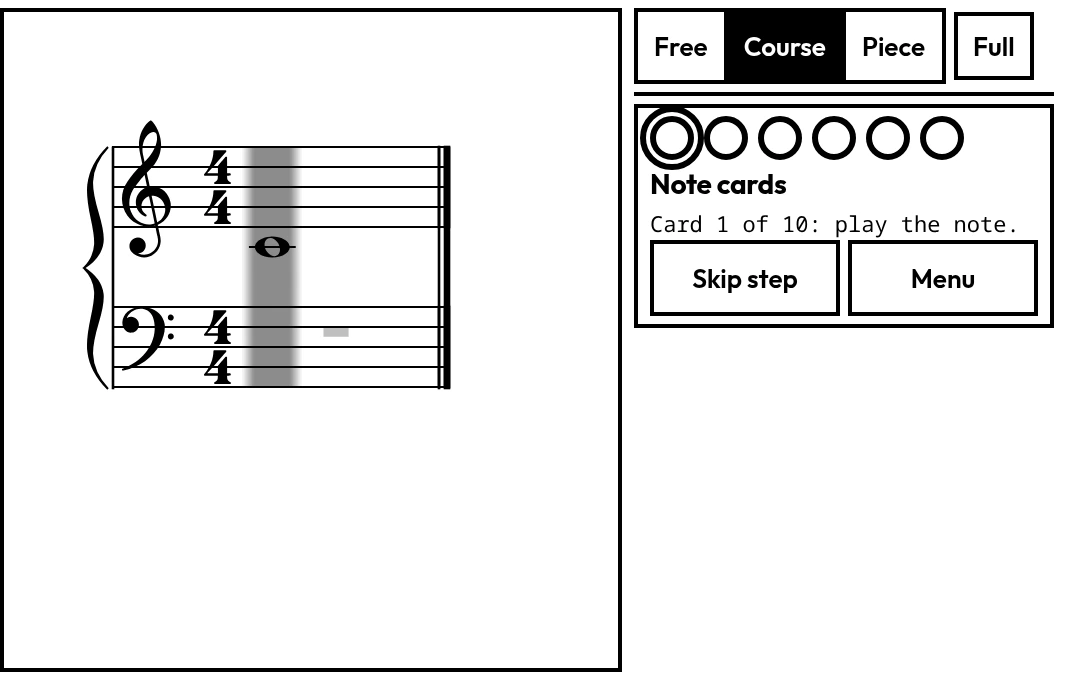
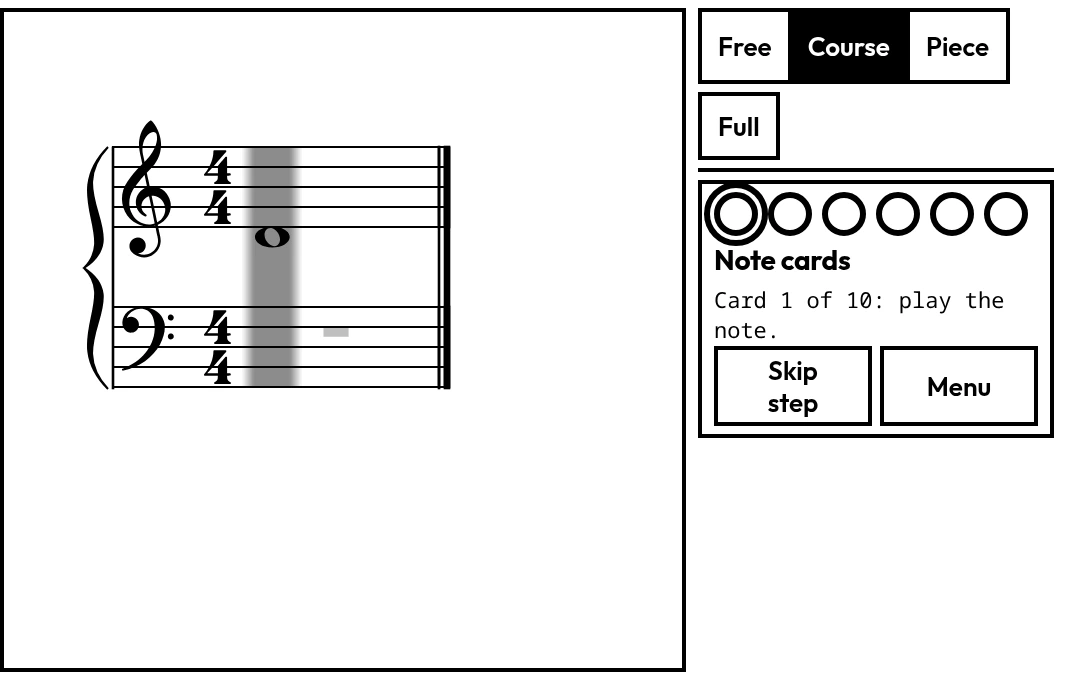
Update README and screenshots

Changed region(s): [[0.5572, 0.0, 0.9906, 0.9882], [0.2167, 0.3397, 0.2786, 0.4015], [0.8668, 0.5559, 0.9287, 0.5868]]

diff --git a/README.md b/README.md
@@ -17,7 +17,7 @@ MIDI keyboard, and you can also play with your computer keyboard or the mouse.
 
 ![Wait mode on Ode to Joy: a right chord in green, a wrong key in red, and the feedback line](docs/screenshots/wait-mode.webp)
 
-**Tempo mode** (Night theme). A metronome sets the pace and every note has a timing window. The thin line crossing the staves moves at your tempo, so you can see when to press. The key you should play next is outlined in green, and the status line counts what was in time, missed or extra.
+**Tempo mode** (Night theme). A metronome sets the pace and every note has a timing window. A thin line runs across the staves and is over each note exactly when you should press it; it already runs through the count-in, entering from the start of the staff and reaching the first note on the first beat. The piece also plays quietly underneath, so you hear the tempo as well as see it. The key you should play next is outlined in green, and the status line counts what was in time, missed or extra. **Earlier** and **Later** next to Stop move the line a little if your screen shows it late or early.
 
 ![Tempo mode with the moving line, a green hit and a red wrong key](docs/screenshots/tempo-mode.webp)
 
@@ -42,7 +42,7 @@ runs ahead of the lesson ([12-lesson-ladder.md](12-lesson-ladder.md), [13-progre
 The **minimal view** is the same app for a small, black and white e-ink screen such as the Minimal Phone (4.3", 600×800): the score,
 the tempo and Start, big buttons, no animation. Open `?view=minimal` once to bookmark it, or tap the button at the top right of the full view.
 It is built for the phone on the music stand, held sideways: the score takes the whole height on the left and the controls stack in a column on the
-right. Held upright it works too (last row below). The staff is drawn at the width of the screen and shrinks until two rows fit, so you always
+right. Held upright it works too (last row below). **While a timed run is going, the controls go away**: the score fills the screen and only a thin strip stays at the bottom, with the cue, the **Earlier / Later** buttons for the line and **Stop**. Everything comes back when the run ends. The staff is drawn at the width of the screen and shrinks until two rows fit, so you always
 see the line after the one you are reading, and the page turns exactly at the start of a line, never through one.
 
 <table>
@@ -55,7 +55,7 @@ see the line after the one you are reading, and the page turns exactly at the st
 <td width="50%"><img src="docs/screenshots/minimal-wait.webp" alt="Wait mode in the minimal view: a right note filled in, a wrong note dashed"><br><sub><b>Free mode, wait mode.</b> What you play shows on the staff: filled when right, dashed when wrong, with no colour needed.</sub></td>
 </tr>
 <tr>
-<td width="50%"><img src="docs/screenshots/minimal-tempo.webp" alt="A timed run: the grey bar on the next note, a check mark under the note just played, and the cue 'Next C4, in 3'"><br><sub><b>A timed run.</b> The grey bar is the next note to play and jumps the moment you play it. The cue says which note and how many clicks away ("in 3", then NOW), and a ✓ stays under every note that counted (✕ for a missed one).</sub></td>
+<td width="50%"><img src="docs/screenshots/minimal-tempo.webp" alt="A timed run: the score fills the screen, a thin line crosses the staff, check marks under the notes played, and a strip at the bottom with the cue, Earlier and Later and Stop"><br><sub><b>A timed run.</b> The score takes the screen and a thin line crosses it: press each key when the line is over its note. The strip below has the cue ("Next C4 · in 3", then NOW), <b>Earlier / Later</b> to tune the line to your screen, and Stop. A ✓ stays under every note that counted (✕ for a missed one).</sub></td>
 <td width="50%"><img src="docs/screenshots/minimal-result.webp" alt="The result card after a run: 89 out of 100 with a Try again button"><br><sub><b>The result.</b> Score and stars, and <b>Try again</b>, which is on every piece and exercise. Tap anywhere else on the card to close it and see your marks.</sub></td>
 </tr>
 </table>
@@ -74,7 +74,7 @@ These screenshots show only the app's own exercises and generated pieces, with a
 
 The **Piece** switch at the top works one score until it is done: the app finds the easy and hard parts of each hand, then takes you from the notes the piece uses, through each hand alone, a few bars with both hands, and the trouble spots, up to the whole piece with the metronome.
 
-It opens on a short list of pieces **grouped by artist**. Pick one and you are practising at once, at the step where you stopped: there is no plan to read, only a row of dots at the top for how far along the path you are (filled = done, big = this one, dashed = skipped). **Pieces** takes you back to the list.
+It opens on a short list of pieces **grouped by artist**. Pick one and you are practising at once, at the step where you stopped: there is no plan to read, only a row of dots at the top for how far along the path you are (filled = done, big = this one, dashed = skipped). **Pieces** takes you back to the list. You can go anywhere on the path to practise freely: **tap any dot** to jump to that step, **← Back** goes to the one before, and on a finished step **Next →** goes to the next one even if it is done too. A finished note-card step keeps dealing cards, so you can drill them as long as you like.
 
 <table>
 <tr>
@@ -83,7 +83,7 @@ It opens on a short list of pieces **grouped by artist**. Pick one and you are p
 </tr>
 </table>
 
-Every playing step opens on the notes only, with the music waiting for you, and that practice is free: it never counts. A step is finished by the rhythm: press **Play with rhythm** and play it with the metronome. Only good runs with the beat count towards the goal, and **Back to the notes only** takes you back whenever you like.
+Every playing step opens on the notes only, with the music waiting for you, and that practice is free: it never counts. A step is finished by the rhythm: press **Play with rhythm** and play it with the metronome. **The run starts the moment you press it**, with no Start button. Only good runs with the beat count towards the goal, and **Notes only** takes you back whenever you like. When a run ends and its score is showing, **any key on the piano starts the next one**, so your hands never leave the keys; the key you pressed is not played into the new run.
 
 Only the scores marked `"pieceMode": true` in `app/scores/library.json` appear in its list, so the list holds just the pieces set up by hand for it (today: Tomorrow's Song). Add the flag to an entry to offer another.
 
@@ -96,7 +96,8 @@ Only the scores marked `"pieceMode": true` in `app/scores/library.json` appear i
 - **Sound.** Listen and the computer keyboard play through one of four instruments, picked with the **♪** button beside Listen: Grand (a recorded piano, one sample per key from C2 to B5, loaded the first time it is used), Piano (a built-in one made of overtones that die away at their own speed, with a hammer thump and a little room reverb), Soft (an electric piano) and Bells. The built-in ones are made in code and work with no files; if the recorded samples cannot be loaded, Grand plays the built-in Piano instead. The samples are MIT-licensed, from [piano-sound-samples](https://github.com/Leethring/piano-sound-samples); see `app/public/samples/piano/README.md`. A piano plugged in over MIDI always makes its own sound.
 - **Tempo mode.** After a count-in, the score follows a metronome and each note has a timing window. You get the share of notes played
   in time, missed and extra notes, and whether you rush or drag. After a clean run the tempo rises 4 bpm. Three clean runs at the target tempo finish the piece.
-  The tempo counts the piece's own beat, so 6/8 is counted in dotted quarters. A line slides across the score at the tempo: press each key as the line reaches its note. A level setting (Beginner, Intermediate, Advanced) sets how wide the timing window is, from about half a beat either side down to a strict ±150 ms at most.
+  The tempo counts the piece's own beat, so 6/8 is counted in dotted quarters. A thin line slides across the score at the tempo: press each key as the line is over its note (see *How the moving line works* below). The piece plays quietly under the run in the recorded piano (the **Play the music quietly** box next to the metronome), which makes a steady tempo much easier to keep. A level setting (Beginner, Intermediate, Advanced) sets how wide the timing window is, from about half a beat either side down to a strict ±150 ms at most.
+- **Triplets under the staff.** The bracket and the 3 of a triplet are drawn below the staff, as in printed scores, so the 3 is never mistaken for finger 3 above the notes.
 - **Try again.** Every result card has a **Try again** button, for every piece and exercise (wait or tempo, free or in the course): wait mode starts again from the first note, tempo mode from a fresh count-in, as often as you like. Every run is logged. In the course, a second go at the same generated reading piece is practice and does not count towards the step; the sight-reading test is one try on purpose.
 - **Listen.** Plays the piece (one hand or both) after a count-in, with the cursor and the keys lit, so you can hear the rhythm before you try it.
 - **Bar ranges and looping.** Practise bars 5 to 8 only, and loop them at a rising tempo.
@@ -114,7 +115,29 @@ Only the scores marked `"pieceMode": true` in `app/scores/library.json` appear i
 - **Minimal view.** A black and white layout for small and e-ink screens (see above), with a paged score instead of scrolling.
 - **Adding music.** Drop MusicXML files in `inbox/` and run one script. It checks each file, rates its difficulty, assigns a stage and rejects duplicates and pop.
 
-All the grading runs in your browser. There is no server, no account and no network use after the page loads.
+All the grading runs in your browser. The app is plain static files: there is no server of its own and no network use after the page loads. It can run on your laptop, or published on Cloudflare behind a login (see *Putting it online*); either way your practice log is kept in the browser.
+
+### How the moving line works
+
+The line has to be over the note when the note is due, on any screen. Three decisions make that so:
+
+- **It takes its position from OSMD's own cursor bar.** OSMD puts that bar over each step using the staff entry that is a reliable anchor; the app keeps the bar running but invisible, and reads its centre (and the height of its system) for every step. Computing the position from the notes themselves was wrong whenever a rest or another voice sat off the note's column. Measured against the real noteheads at due time, the line is within a few pixels at every screen size tested.
+- **Everything is measured on the final drawing.** A run changes the layout (the minimal view clears its controls), so the score is drawn for that first, the places of all the steps are measured, and only then does the clock start. If the window changes mid-run, the places are measured again. The drawing's units are 10 px per OSMD unit whatever the zoom: the zoom is only the size the SVG is displayed at, so anything drawn inside it must not be scaled by the zoom a second time.
+- **It is drawn ahead of the clock.** A screen shows what it was given a moment ago, and e-ink more than most. The line is drawn where the clock will be half a redraw from now (the redraw time is measured) plus a delay for the panel itself, and **Earlier / Later** set that delay on the device and remember it. Between two notes the line slides, so it is over a note exactly when the note is due; across a line break it waits at the last note and jumps on the beat.
+
+## Putting it online
+
+The app is static files, so it is published as a Cloudflare Worker with static assets (`app/wrangler.jsonc`), at a `workers.dev` address behind a **Cloudflare Access** login (one-time email PIN, a rule set in the Cloudflare dashboard, so the wall is not in the code). That gives a real HTTPS address, which also fixes Web MIDI on a phone without a self-signed certificate.
+
+```bash
+cd app
+npm run deploy      # checks the login wall, builds, checks the scores, uploads
+```
+
+- **Publish from your own computer, never from GitHub.** The scores are copyrighted and not in git, so a build made from the repository would have only the public-domain pieces. `npm run deploy` builds locally and uploads `dist`.
+- **The script refuses to publish** unless the address answers an anonymous request with a redirect to the Access login (so scores can never go out in the open), and unless the build holds as many score files as `app/scores/` does. Scores are always kept as separate files for this reason (`assetsInlineLimit` in `vite.config.ts`).
+- **Preview URLs are off** (`preview_urls: false`): each would be a second public address the login does not cover.
+- Saving the practice log in the cloud (a D1 database behind the same login) is planned, not built: for now it lives in each browser, with the backup file as the safeguard.
 
 ## Quick start
 
@@ -209,6 +232,8 @@ app/                    Vite + TypeScript app
   course/course.json    The units: exercises, reading rungs, cards, exits
   scores/library.json   Manifest of imported scores (files are not tracked)
   public/samples/piano/ The recorded piano (MIT, with its credit), one sample per key
+  scripts/deploy.mjs    npm run deploy: the checks, the build and the upload
+  wrangler.jsonc        The Cloudflare Worker that serves the build
 tools/                  import-scores.py, score-difficulty.py, midi-check.html, ledger.py, fingering.py (finger numbers for Tomorrow's Song), piano-samples.py (picks the piano samples)
 tools/omr/              PDF to MusicXML (homr plus checks), local only
 tools/screenshots/      Takes the screenshots for this README (minimal.mjs and full.mjs)
@@ -227,7 +252,7 @@ Wait mode, tempo mode, hands, listen, ranges and looping, the sight-reading test
 (with its introduction week and reading ladder), the minimal view and backup files are done. The course reaches unit 2.3; the
 next job is **more content**: Faber Book 1 Units 14 to 16 and four lyric-heavy pieces to transcribe by hand, then Book 2 for Stage 3 (what is converted and
 what is missing is in [11-ingestion-ledger.md](11-ingestion-ledger.md)). Also open: a finer placement test, a rhythm-only step before reading, a history page, and
-storage more durable than the browser (the backup file is the safeguard for now). Ideas that haven't been scheduled: clicking the score to set a bar range, pedal marks in Listen, and
+storage more durable than the browser (the backup file is the safeguard for now; a D1 database on Cloudflare is the plan). Ideas that haven't been scheduled: clicking the score to set a bar range, pedal marks in Listen, and
 an import tool for single [Mutopia](https://www.mutopiaproject.org/) pieces. Things that were considered and dropped, with the reasons, are listed in
 [06-app-notes.md](06-app-notes.md).
 

diff --git a/app/README.md b/app/README.md
@@ -4,7 +4,7 @@ Browser practice app for the plan in the parent folder. Reads a MusicXML score, 
 USB-MIDI (Web MIDI), and has two practice modes:
 
 - **Wait**: the cursor stays on a step until you play exactly those notes. For learning a piece.
-- **Tempo**: count-in, then the score follows a clock (with a metronome) and every note has a time window.
+- **Tempo**: count-in, then the score follows a clock (with a metronome, and the piece quietly in the background) and every note has a time window. A line runs across the score and is over each note when it is due.
   You get the share of steps played in time, missed/extra notes, and whether you rush or drag.
   The target key is always the **next note you haven't played yet** (it moves the moment you play or miss the previous
   one, and it skips rests), shown on the keyboard and as "Next C4" in the status line. Untick "Show the next key" to
@@ -83,9 +83,8 @@ stays in the full view. Built for a monochrome e-ink screen such as the Minimal 
 - the staff is drawn at the width of the window and shrinks until two systems fit its height (never below 0.4); `A−` / `A+` set the
   biggest size it may use, and it is drawn again when the window changes (turning the phone, a toolbar hiding);
 - held sideways (landscape, under 520 px high) the score takes the whole height on the left and the controls stack in a column on the right;
-- in a timed run the grey bar marks **the next note to play**, not where the clock is, and jumps the moment you play (or miss) it, so you see your key counted; there is no
-  moving line, since e-ink smears continuous movement. The count-in reads "1 2 3 4" up, like the clicks, and the first note is on the click after the last number. The
-  cue under the title says which note and how many clicks away it is ("Next D4 · in 2", then "Play D4 NOW"), and the line under it which note of how many you are on and what
+- in a timed run the controls go away and the score fills the screen (a thin strip at the bottom keeps the cue, **Earlier / Later** for the line and Stop). A thin black line crosses the staves and is over each note when it is due, already during the count-in. It is drawn from OSMD's own cursor bar (kept running but invisible) and ahead of the clock by the panel's delay, which Earlier / Later set. The count-in reads "1 2 3 4" up, like the clicks, and the first note is on the click after the last number. The
+  cue says which note and how many clicks away it is ("Next D4 · in 2", then "Play D4 NOW"), and the line under it which note of how many you are on and what
   counted. Every note you play gets a ✓ under it on the score, a missed one a ✕, until the run starts again, and the feedback line confirms each key ("✓ C4 counted, on the beat");
 - right notes show as a filled head on the staff, wrong ones as a dashed hollow head (no colour);
 - tap the result card to put it away; tap the MIDI label to reconnect.
